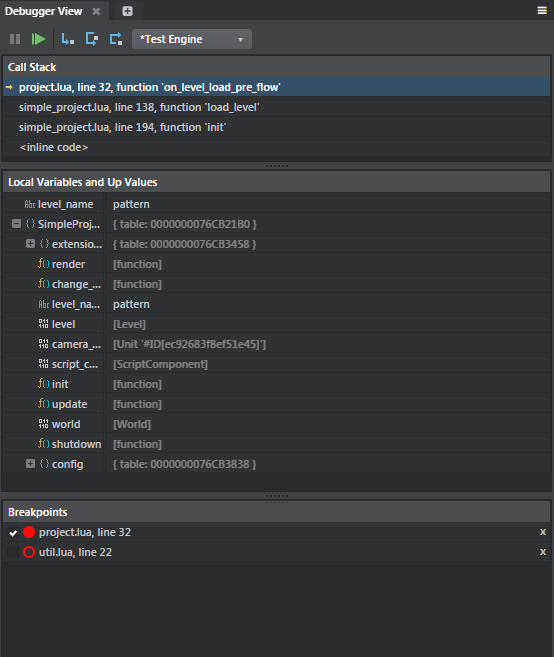
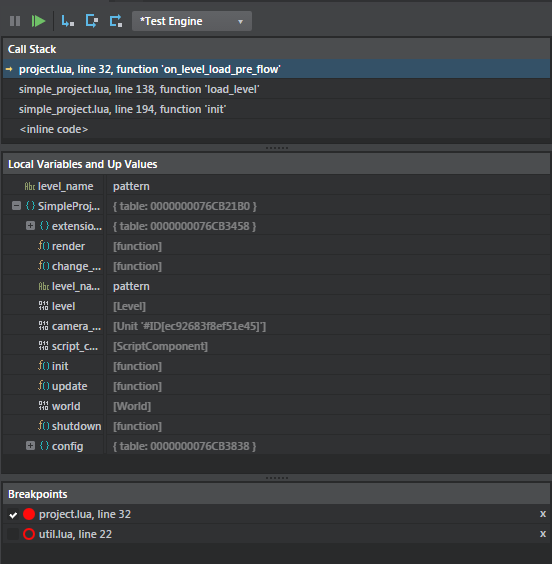
Update name of Debugger. Clarify meaning of DCC.

Changed region(s): [[0.0, 0.0, 1.0, 1.0], [0.9547, 0.0, 0.9855, 0.0301]]

diff --git a/source/stingray_help/importing_assets/level_sync/level_sync_tag_assets.md b/source/stingray_help/importing_assets/level_sync/level_sync_tag_assets.md
@@ -1,11 +1,11 @@
 # Tag assets with Level Sync
 
-Tagging assigns a name and target folder for your asset(s), so your DCC knows where to export your files. Once Maya, Maya LT, or 3ds Max are linked to the Stingray editor, assets can be automatically or manually tagged, and then reproduced with the same layout in Stingray.
+Tagging assigns a name and target folder for your asset(s), so your DCC tool knows where to export your files. Once Maya, Maya LT, or 3ds Max are linked to the Stingray editor, assets can be automatically or manually tagged, and then reproduced with the same layout in Stingray.
 
 ## Manually tag your asset(s) with level sync
 
-1. Link Maya, Maya LT, or 3ds Max with Stingray. See ~{ Connect DCC and Stingray viewports }~.
-2. In your DCC, select your asset(s) and then select **Stingray > Set Engine Resource**.
+1. Link Maya, Maya LT, or 3ds Max with Stingray. See ~{ Connect DCC tool and Stingray viewports }~.
+2. In your DCC tool, select your asset(s) and then select **Stingray > Set Engine Resource**.
 The Set Engine Resource window lets you tag the assets you want to export to Stingray.
 3. In the **Set Engine Resource** window that appears, tag the selected assets using the following fields:
 
@@ -13,21 +13,21 @@ The Set Engine Resource window lets you tag the assets you want to export to Sti
     - **Asset Name:** The name of the asset. By default, the node name is used. When multiple assets are selected, this field is disabled.
     - **Result:** When one asset is selected, this field shows the output path  of the single asset.
 4. Click **Apply and Close**.
-5. Send your assets to your DCC. See ~{ Send assets from Maya and Maya LT with Level Sync }~ or ~{ Send assets from 3ds Max with Level Sync }~.
+5. Send your assets to your DCC tool. See ~{ Send assets from Maya and Maya LT with Level Sync }~ or ~{ Send assets from 3ds Max with Level Sync }~.
 
     > **Note:** Tagging respects instancing. During tagging, the name of the first instance is used as the **Asset Name**, and all instances receive the same tag.
 
 ## Automatically tag your asset(s) with level sync
 
-1. Link Maya, Maya LT, or 3ds Max with Stingray. See ~{ Connect DCC and Stingray viewports }~.
+1. Link Maya, Maya LT, or 3ds Max with Stingray. See ~{ Connect DCC tool and Stingray viewports }~.
 2. Do one of the following:
 
-    - In your DCC, select **Stingray > Set Engine Resource**, and then select **Auto Tag All Untagged**.
+    - In your DCC tool, select **Stingray > Set Engine Resource**, and then select **Auto Tag All Untagged**.
       <br>
     - In Maya or Maya LT, Select **Stingray > Send All > ![](../../images/opt_box.png)** or **Stingray > Send Selected > ![](../../images/opt_box.png)** and select **Auto Tag**.
 
       All of the top level nodes are tagged with the default values.
-3. Send your assets to your DCC. See ~{ Send assets from Maya and Maya LT with Level Sync }~ or ~{ Send assets from 3ds Max with Level Sync }~.
+3. Send your assets to your DCC tool. See ~{ Send assets from Maya and Maya LT with Level Sync }~ or ~{ Send assets from 3ds Max with Level Sync }~.
 
 ---
 Related topics:

diff --git a/source/stingray_help/importing_assets/link_to_dcc/send_to_maya.md b/source/stingray_help/importing_assets/link_to_dcc/send_to_maya.md
@@ -1,13 +1,13 @@
 #Send materials to Maya, Maya LT, or 3ds Max
 
 You can easily send and update materials between Stingray and Maya, Maya LT, or 3ds Max using the **Send to** command.
-By default, materials are automatically sent with a unit when it is transferred between Stingray and your DCC.
+By default, materials are automatically sent with a unit when it is transferred between Stingray and your DCC tool.
 
 > **Tip:** To change this behavior, select **File > Settings > Editor Settings** and disable **Send materials with unit**.
 
-**To send a material from Stingray to your DCC**
+**To send a material from Stingray to your DCC tool**
 
-1. Establish a connection with Maya, Maya LT, or 3ds Max. See ~{ Send assets to a DCC }~.
+1. Establish a connection with Maya, Maya LT, or 3ds Max. See ~{ Send assets to a DCC tool }~.
 
 2. Right-click in the **Asset Browser**, and select **Create > Material (Standard)**.
 
@@ -21,11 +21,11 @@ By default, materials are automatically sent with a unit when it is transferred 
 
 4. In the **Asset Browser**, right-click the material and select **Send to <your DCC tool>**.
 
-   When you select the material in your DCC (using **Hypershade** in Maya or **Material Editor** in 3ds Max) and view a property editor (such as the **Attribute Editor** in Maya or the **Material Parameter Editor** in 3ds Max), the material **Engine Resource** path points to the material's location in Stingray.
+   When you select the material in your DCC tool (using **Hypershade** in Maya or **Material Editor** in 3ds Max) and view a property editor (such as the **Attribute Editor** in Maya or the **Material Parameter Editor** in 3ds Max), the material **Engine Resource** path points to the material's location in Stingray.
 
-   The name you enter in the DCC is also used as the material name in Stingray. For example, if you enter myStingrayPBS in the **Engine Resource** attribute/parameter, then select **File > Send to Stingray** (in Maya/Maya LT) or **Stingray > Materials > Send Selected** (in 3ds Max), the material is called myStingrayPBS.material in Stingray.
+   The name you enter in the DCC tool is also used as the material name in Stingray. For example, if you enter myStingrayPBS in the **Engine Resource** attribute/parameter, then select **File > Send to Stingray** (in Maya/Maya LT) or **Stingray > Materials > Send Selected** (in 3ds Max), the material is called myStingrayPBS.material in Stingray.
 
-**To send a unit from Stingray to your DCC with material updates**
+**To send a unit from Stingray to your DCC tool with material updates**
 
 1. In the **Asset Browser**, right-click the unit and select **Send To <your DCC tool>**.
 

diff --git a/source/stingray_help/creating_gameplay/scripting_with_lua/debugging/debugging_basics.md b/source/stingray_help/creating_gameplay/scripting_with_lua/debugging/debugging_basics.md
@@ -18,18 +18,18 @@ Using a debugger to track down problems in your code typically follows three mai
 
 	You typically pause a game by setting markers called *breakpoints* at specific lines in your Lua scripts. Do this in the **Script Editor** by clicking in the left margin next to the line numbers or by pressing **F9**. When the game is running your Lua script and it reaches that line, it will automatically pause the game.
 
-	You can also pause a running game at any time by hitting the pause icon in the toolbar of the **Script Editor** or **Debugger View**.
+	You can also pause a running game at any time by hitting the pause icon in the toolbar of the **Script Editor** or **Script Debugger**.
 
 2.	**Inspect the code.**
 
-	While your game is broken, you can access information about the state of the Lua environment. You can check the values that are assigned to local variables in the **Debugger View**, or by hovering over them in the **Script Editor**.
+	While your game is broken, you can access information about the state of the Lua environment. You can check the values that are assigned to local variables in the **Script Debugger**, or by hovering over them in the **Script Editor**.
 
-	You can modify local variables in the **Debugger View**, and continue the game using the modified value. You can also modify your scripts in the **Script Editor** while paused, and reload them into the game. See also ~{ Reloading Lua code }~.
+	You can modify local variables in the **Script Debugger**, and continue the game using the modified value. You can also modify your scripts in the **Script Editor** while paused, and reload them into the game. See also ~{ Reloading Lua code }~.
 
 3.	**Advance.**
 
 	Once you have learned all you can from the state of the code at one break point, you have several options for getting to another break point. You can *step* line-by-line through the script, executing one line at a time and pausing after each. While stepping, you can choose whether you want to descend into . Alternatively, you can also *continue*, which resumes the regular flow of the game until the next breakpoint is hit or you pause the game again.
 
-	You can advance the code using the debugging controls in the toolbars of the **Script Editor** and the **Debugger View**. For details, see ~{ Using the Debugger View }~.
+	You can advance the code using the debugging controls in the toolbars of the **Script Editor** and the **Script Debugger**. For details, see ~{ Using the Script Debugger }~.
 
 If you have not been able to identify and fix your problem, make a new hypothesis and test again.

diff --git a/source/stingray_help/importing_assets/link_to_dcc/send_assets_dcc.md b/source/stingray_help/importing_assets/link_to_dcc/send_assets_dcc.md
@@ -1,22 +1,22 @@
-#Send assets to a DCC
+#Send assets to a DCC tool
 
-There are two ways to connect or send assets between Stingray and your DCC, depending on whether you want to establish a live link (seeing updates in Stingray as you edit the asset in your DCC), or whether you want to launch and edit the original source scene in your DCC.
+There are two ways to connect or send assets between Stingray and your DCC tool, depending on whether you want to establish a live link (seeing updates in Stingray as you edit the asset in your DCC tool), or whether you want to launch and edit the original source scene in your DCC.
 
-###To establish a live editing link between Stingray and your DCC:
+###To establish a live editing link between Stingray and your DCC tool:
 
-1. Right-click an asset in the **Asset Browser** and select **Send to ** > *Product Name*.
+1. Right-click an asset in the **Asset Browser** and select **Send to** > *Product Name*.
 
-	This launches the asset in your DCC of choice. A small green "Connected to Stingray" message displays near the bottom of the interface.
+	This launches the asset in your DCC tool of choice. A small green "Connected to Stingray" message displays near the bottom of the interface.
 
 2. Make any edits you want in the DCC tool.
 
 3. Click **Update** next to the "Connected to Stingray" message to send any updates to Stingray.
 
-###To edit the original source scene in your DCC:
+###To edit the original source scene in your DCC tool:
 
 1. Right-click an asset in the **Asset Browser** and select **Open Source Asset**.
 
-	Stingray detects where the original scene was created, and launches the appropriate DCC. You're prompted to manually select an application if Stingray can't determine the file origin.
+	Stingray detects where the original scene was created, and launches the appropriate DCC tool. You're prompted to manually select an application if Stingray can't determine the file origin.
 
 	>	**Note:** If you have both Maya and Maya LT installed, Stingray uses Maya to launch FBX files. Maya LT only launches if the original scene is an .mlt file.
 
@@ -27,6 +27,6 @@ There are two ways to connect or send assets between Stingray and your DCC, depe
 
 ---
 Related topics:
-- ~{ Connect DCC and Stingray viewports }~
-- ~{ Setup the DCC plug-in }~
+- ~{ Connect DCC tool and Stingray viewports }~
+- ~{ Setup the DCC tool plug-in }~
 ---

diff --git a/source/stingray_help/importing_assets/link_to_dcc/install_dcc.md b/source/stingray_help/importing_assets/link_to_dcc/install_dcc.md
@@ -1,8 +1,8 @@
-#Setup the DCC plug-in
+#Setup the DCC tool plug-in
 
-To allow your DCC to discover the link to Stingray, install the DCC Link plug-in included with your Stingray install, and then point Stingray to the DCC application.
+To allow your DCC tool to discover the link to Stingray, install the DCC Link plug-in included with your Stingray install, and then point Stingray to the DCC application.
 
-###Install the DCC plug-in
+###Install the DCC tool plug-in
 
 1. Double-click the StingrayDCCLink.msi located here within your Stingray install directory: `\Program Files\Autodesk\Stingray\<*version*>\extras`
 
@@ -20,18 +20,18 @@ To allow your DCC to discover the link to Stingray, install the DCC Link plug-in
 	- In Maya and Maya LT, enable the stingray_link.mll plug-in using the Plug-in Manager (**Window > Settings/Preferences > Plug-in Manager**).
 	- In 3ds Max, point to the plug-in install location by selecting **Customize > Configure System Paths**, and adding the install path to '3rd Party Plugins'.
 
-### (Optional) Point Stingray to where you have the DCC installed
-Stingray automatically detects your DCC if you installed it to the default location. If you installed the DCC to a custom location, do the following to point Stingray to the application.
+### (Optional) Point Stingray to where you have the DCC tool installed
+Stingray automatically detects your DCC tool if you installed it to the default location. If you installed the DCC tool to a custom location, do the following to point Stingray to the application.
 
 1. In Stingray, select **File > Settings > Editor Settings**.
 
-2. In the **Property Editor**, navigate to select the DCC .exe file (for example maya.exe) wherever you installed the software.
+2. In the **Property Editor**, navigate to select the .exe file (for example maya.exe) wherever you installed the DCC tool.
 For example: `C:\My Software\Autodesk\<*version*>\bin\maya.exe`
 
 > **Tip:** If you have both Maya and Maya LT installed, Stingray uses Maya to launch FBX files. If you prefer to launch Maya LT instead, remove the path to Maya in your **Editor Settings**, then restart Stingray.
 
 ---
 Related topics:
-- ~{ Connect DCC and Stingray viewports }~
-- ~{ Send assets to a DCC}~
+- ~{ Connect DCC tool and Stingray viewports }~
+- ~{ Send assets to a DCC tool }~
 ---

diff --git a/source/stingray_help/importing_assets/level_sync/level_sync_send_assets.md b/source/stingray_help/importing_assets/level_sync/level_sync_send_assets.md
@@ -8,9 +8,9 @@ Level sync lets you link and export entire scenes built in Maya, Maya LT, or 3ds
 
 ## Send selected assets from Maya or Maya LT with level sync
 
-1. Establish a live editing link between Stingray and your DCC. See ~{ Send assets to a DCC }~.
+1. Establish a live editing link between Stingray and your DCC tool. See ~{ Send assets to a DCC tool }~.
 2. Tag the assets you want to send to Stingray. See ~{ Tag assets with Level Sync }~.
-3. In your DCC, select **Stingray > Send Selected > ![](../../images/opt_box.png)**.
+3. In your DCC tool, select **Stingray > Send Selected > ![](../../images/opt_box.png)**.
 4. (Optional) In the **Send Level** window that appears, turn on **Send Missing Assets** to ensure assets that are missing from the project are included in the export.
 5. Click **Apply and Close**
 <br>
@@ -19,9 +19,9 @@ Level sync lets you link and export entire scenes built in Maya, Maya LT, or 3ds
   >**Note:** [![NEW](../../images/new.png "What else is new in v1.7?")](../../release_notes/readme_1.7.html) After level-syncing your assets, you can still make updates to your assets in Maya or Maya LT and send them to Stingray. Turn on **Update Existing Assets** in the **Send Level** window before sending your scene.
 
 ## Send all assets from Maya or Maya LT with level sync
-1. Establish a live editing link between Stingray and your DCC. See ~{ Send assets to a DCC }~.
+1. Establish a live editing link between Stingray and your DCC tool. See ~{ Send assets to a DCC tool }~.
 2. Tag the assets you want to send to Stingray. See ~{ Tag assets with Level Sync }~.
-3. In your DCC, select **Stingray > Send All > ![](../../images/opt_box.png)**.
+3. In your DCC tool, select **Stingray > Send All > ![](../../images/opt_box.png)**.
 4. (Optional) In the **Send Level** window that appears, turn on **Send Missing Assets** to ensure assets that are missing from the project are included in the export.
 5. Click **Apply and Close**
 <br>

diff --git a/source/stingray_help/animation/animation_compression.md b/source/stingray_help/animation/animation_compression.md
@@ -1,9 +1,9 @@
 #Animation compression
 
 Animations can consume a lot of memory. To reduce the cost, Stingray uses a lossy compression scheme. When exported, the animation is sampled at 30 Hz and key frames are recorded. During data compilation, the engine tries to fit curves that match these key frames. Then the control points for these curves are compressed, which loses some precision. Finally, during playback, the engine interpolates in the curves to find the pose at a particular time value.
-It is important to note that the curves that the engine uses for interpolation are not the same as the "curves" used by your DCC tool (for example, MotionBuilder). The engine uses its own curve format, just for compression, and it won't match the DCC curves.
+It's important to note that the curves the engine uses for interpolation are not the same as the "curves" used by your DCC tool (for example, MotionBuilder). The engine uses its own curve format, just for compression, and it won't match the DCC curves.
 
-The compression introduces slight variation in the animations - they will not look exactly the same in-game as in your DCC. You can use the clip settings to control the amount of compression and reduce the error. You can turn compression on or off (per clip) for position, rotation, or scale at any time.
+The compression introduces slight variation in the animations - they will not look exactly the same in-game as in your DCC tool. You can use the clip settings to control the amount of compression and reduce the error. You can turn compression on or off (per clip) for position, rotation, or scale at any time.
 
 Stingray's lossy animation compression is based on two mechanisms. First, curves are fitted to the data. These curves can be represented with less data than the original animation keys. The curves may not fit the original animation keys exactly, so > this introduces an error in the animation.
 

diff --git a/source/stingray_help/creating_gameplay/physics/install_physx.md b/source/stingray_help/creating_gameplay/physics/install_physx.md
@@ -1,10 +1,10 @@
-# Install the PhysX plug-in for your DCC
+# Install the PhysX plug-in for your DCC tool
 
 Included with your Stingray install, you'll find the NVIDIA PhysX plug-ins for Maya and Maya LT. For the latest Stingray, the PhysX plug-in version is now 3.3.20602.11122, and the PhysX library/SDK used is 3.3.4.
 
-When installed and loaded, the PhysX plug-in adds a PhysX menu to the main menu bar in your DCC, giving you easy access to tools and documentation for creating PhysX ragdolls, rigid bodies, and constraints.
+When installed and loaded, the PhysX plug-in adds a PhysX menu to the main menu bar in your DCC tool, giving you easy access to tools and documentation for creating PhysX ragdolls, rigid bodies, and constraints.
 
-To install the PhysX plug-in for your DCC:
+To install the PhysX plug-in for your DCC tool:
 
 1. Double-click the `NVIDIA_PhysX_For_<Product>_<Version>.msi` located here within your Stingray install directory: `\Program Files\Autodesk\Stingray\<*version*>\extras`
 
@@ -30,4 +30,4 @@ Note that the **Axis Orientation** is also an important consideration during exp
 
 Stingray uses SI base units, so mass values are in kg, densities are in kg/m3, and the default density value (water) is 1000.
 
-PhysX actors created with the NVidia PhysX plug-in for your DCC and exported to Stingray use grams as the base weight unit. In order to align with the units of mass expected in Stingray, these actors are converted to kg at runtime.
+PhysX actors created with the NVidia PhysX plug-in for your DCC tool and exported to Stingray use grams as the base weight unit. In order to align with the units of mass expected in Stingray, these actors are converted to kg at runtime.

diff --git a/source/stingray_help/animation/blend_shapes/create_blend_shapes.md b/source/stingray_help/animation/blend_shapes/create_blend_shapes.md
@@ -2,7 +2,7 @@
 
 This method of shape animation lets you create target shapes directly on the base object without needing to create separate multiple target objects. This means less geometry in the scene to slow down the interaction time. You can also create multiple target objects that are duplicates of the base object, then modify the vertex positions on each one of the target objects into the forms you want. For example, you can use this method for facial animation, with each target object representing a different facial expression. For more information on this method, see [Create blend shapes using multiple target objects](http://help.autodesk.com/view/MAYAUL/2017/ENU/?guid=GUID-42114F0D-8F16-4365-A52C-E0FD70F40852). Your shape workflows can be performed in Maya or Maya LT.
 
-## Create blend shapes using only the base object in your DCC
+## Create blend shapes using only the base object in your DCC tool
 
   1. Select the object you want to use for your blend shape.
 
@@ -47,7 +47,7 @@ This method of shape animation lets you create target shapes directly on the bas
 
 2. Click **Import**.
 
-	  When you initially import your object, the animation you applied in your DCC is not visible. You can add your animation in Stingray using an animation controller. See ~{ View animated blend shape targets in Stingray }~.
+	  When you initially import your object, the animation you applied in your DCC tool is not visible. You can add your animation in Stingray using an animation controller. See ~{ View animated blend shape targets in Stingray }~.
 
 ---
 Related topics:

diff --git a/source/stingray_help/release_notes/readme_1.4.md b/source/stingray_help/release_notes/readme_1.4.md
@@ -130,7 +130,7 @@ When you bake lightmaps with the Stingray baker, you can now adjust:
 
 ## Updated DCC interop plug-ins
 
-This release includes an updated Stingray DCC Link plug-in to support Maya 2017 and Maya LT 2017, as well as the plug-in for 3ds Max 2017. For information on installing the plug-ins, see ~{ Setup the DCC plug-in }~.
+This release includes an updated Stingray DCC Link plug-in to support Maya 2017 and Maya LT 2017, as well as the plug-in for 3ds Max 2017. For information on installing the plug-ins, see ~{ Setup the DCC tool plug-in }~.
 
 ## Easier Wwise engine configuration
 
@@ -138,7 +138,7 @@ You now have more control over the memory usage and behavior of the integrated W
 
 ## Updated PhysX plug-in
 
-The PhysX plug-in installers for Maya 2017 and Maya LT 2017 that ship with Stingray are now updated to install the latest version of the PhysX plug-in, version 3.3.20602.11122. Click [PhysX Plugins Download]( http://www.autodesk.com/physx-plugins-download) to get the plug-ins for older versions of Maya. For related information, see ~{ Install the PhysX plug-in for your DCC }~.
+The PhysX plug-in installers for Maya 2017 and Maya LT 2017 that ship with Stingray are now updated to install the latest version of the PhysX plug-in, version 3.3.20602.11122. Click [PhysX Plugins Download]( http://www.autodesk.com/physx-plugins-download) to get the plug-ins for older versions of Maya. For related information, see ~{ Install the PhysX plug-in for your DCC tool }~.
 
 [Return to top](#top)
 

diff --git a/source/stingray_help/importing_assets/link_to_dcc/connect_viewports.md b/source/stingray_help/importing_assets/link_to_dcc/connect_viewports.md
@@ -1,15 +1,15 @@
-##Connect DCC and Stingray viewports
+##Connect DCC tool and Stingray viewports
 
-With the Stingray DCC link plug-in installed and loaded for your DCC, you can also establish a live viewport connection between your DCC and Stingray.
+With the Stingray DCC link plug-in installed and loaded for your DCC tool, you can also establish a live viewport connection between your DCC tool and Stingray.
 
->	**Note:** To see assets you're working on in Stingray inside a scene in your DCC, you must also send the objects to the DCC. See ~{ Send assets to a DCC }~.
+>	**Note:** To see assets you're working on in Stingray inside a scene in your DCC tool, you must also send the objects to the DCC. See ~{ Send assets to a DCC tool}~.
 
-1. In your DCC (Maya, Maya LT, or 3ds Max), enable **Live Camera Tracking** in the **Stingray** menu.
+1. In your DCC tool (Maya, Maya LT, or 3ds Max), enable **Live Camera Tracking** in the **Stingray** menu.
 <br>
 With **Live Camera Tracking** enabled, the viewport in one linked application starts to control the viewport in the other. For example, when working in the Stingray viewport, it starts to control the DCC viewport. When working in your DCC viewport, it starts to control the Stingray viewport. As you adjust your view (your camera) in one viewport, the other viewport updates as well.
 
 ---
 Related topics:
-- ~{ Send assets to a DCC }~
-- ~{ Setup the DCC plug-in }~
+- ~{ Send assets to a DCC tool }~
+- ~{ Setup the DCC tool plug-in }~
 ---

diff --git a/source/stingray_help/creating_gameplay/physics.md b/source/stingray_help/creating_gameplay/physics.md
@@ -4,7 +4,7 @@ The purpose of the physics system is to simulate a bunch of interacting physical
 
 The objects in the physics world are completely separate from the objects in the rendering world, but the engine sets up a connection between them so that they move unanimously. For example, whenever the bouncing ball moves in the physics world, the engine extracts its position and rotation and applies it to a rendered ball in the render world. That way the rendered ball bounces according to the laws of physics.
 
-Stingray uses a third-party physics system, PhysX by Nvidia, to run physics simulations. You can read the PhysX documentation to find out more about how that particular physics system works. See also ~{ Install the PhysX plug-in for your DCC }~.
+Stingray uses a third-party physics system, PhysX by Nvidia, to run physics simulations. You can read the PhysX documentation to find out more about how that particular physics system works. See also ~{ Install the PhysX plug-in for your DCC tool }~.
 
 Note that the Stingray documentation does not provide detailed information on how physics in general and physics simulations in particular work. Topics in this section assume you're already familiar with concepts such as mass, density, collision shapes, rigid bodies, and collision filtering. Information about the particulars of physics simulation can be found in the PhysX SDK documentation downloadable from Nvidia:
 http://developer.nvidia.com/object/physx.html
